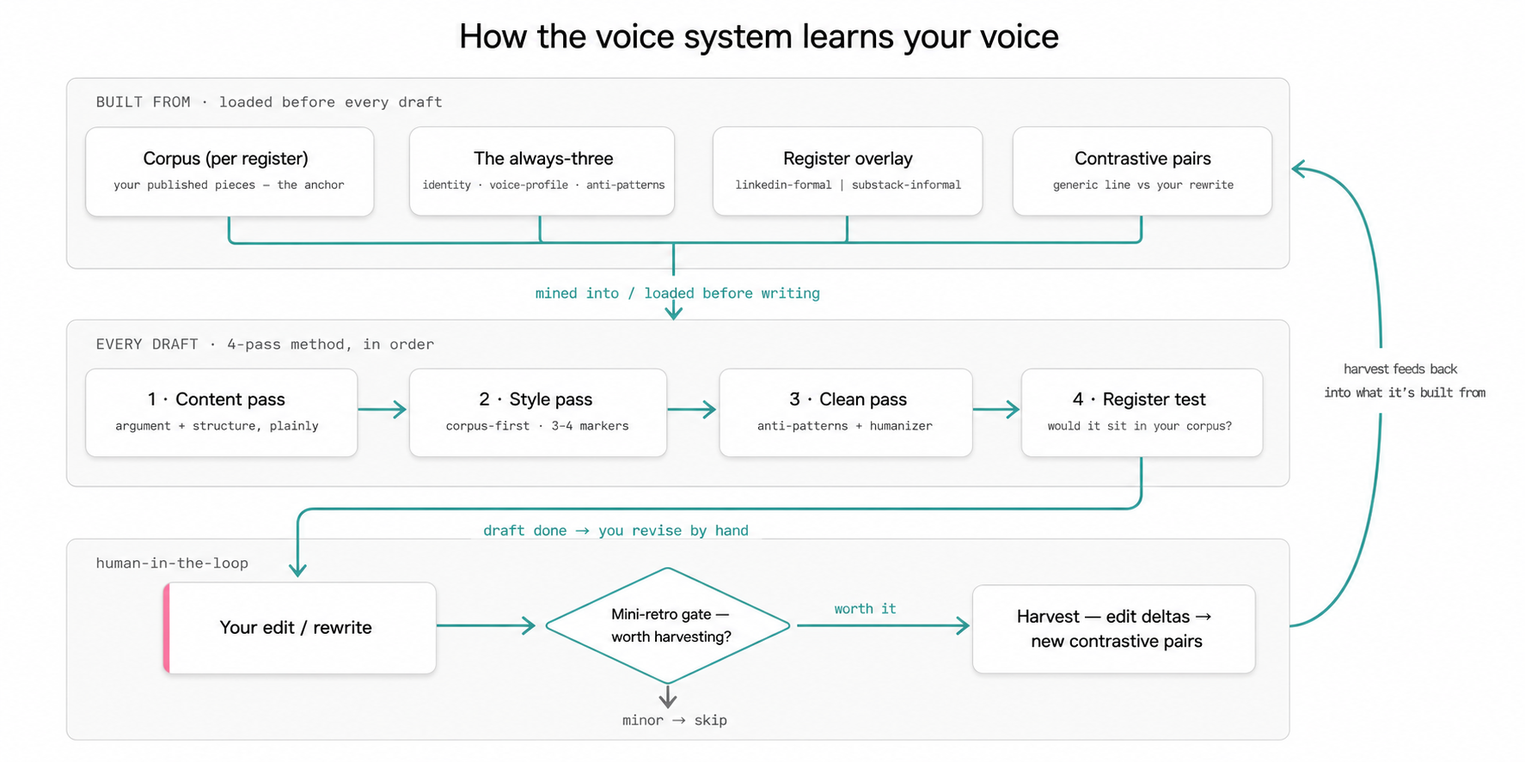
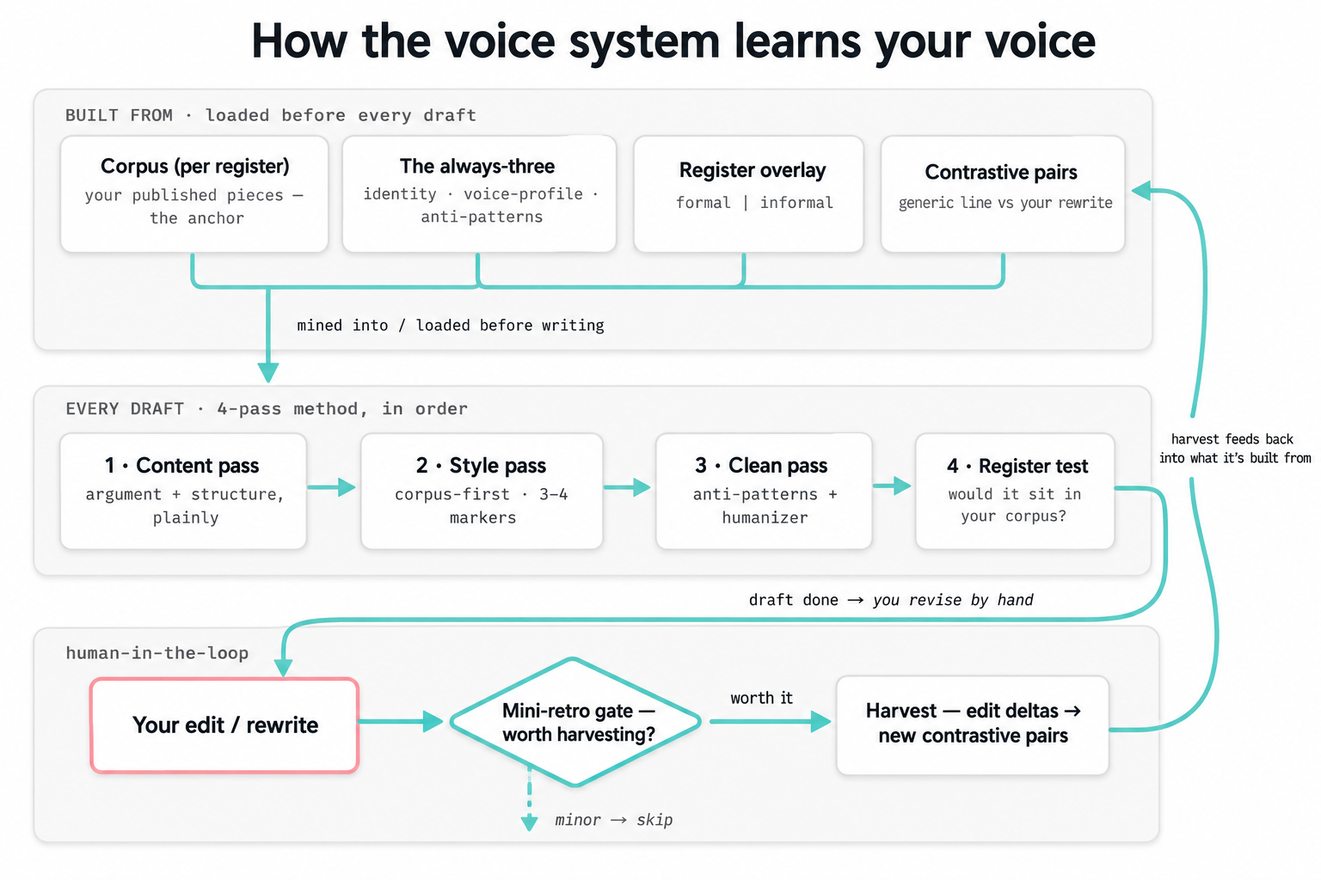
Decouple voice registers from channels
MIGRATION: Replace channel-coupled register taxonomy with formal/informal base-plus-borrow recipes. No compatibility aliases or tombstones are retained.

Changed region(s): [[0.0625, 0.4566, 1.0, 0.9741], [0.0312, 0.1218, 0.9375, 0.487], [0.1875, 0.0304, 0.8438, 0.0913]]

diff --git a/library/context/operator-schema/voice/README.md b/library/context/operator-schema/voice/README.md
@@ -1,39 +1,55 @@
-# Voice — canonical shape (v4, corpus-anchored)
+# Voice — canonical shape (v5, register/channel separated)
 
-> **Canonical shape of the voice system.** The voice build ([`voice-setup.md`](../../../process/voice-setup.md)) generates the operator's `library/context/operator/voice/` from this shape; it is not copied by hand. The operator's voice folder is gitignored (private).
+> **Canonical shape of the voice system.** [`voice-setup.md`](../../../process/voice-setup.md) generates the private `library/context/operator/voice/` tree from this shape.
 
-> **NOT SET UP YET?** If these files still hold bracketed placeholders, the voice system isn't built. Don't draft against placeholders — run [`library/process/voice-setup.md`](../../../process/voice-setup.md) to build it (gather samples → seed the gold corpus → mine pairs → taste interview → compile).
+> **NOT SET UP YET?** If these files still hold bracketed placeholders, run [`voice-setup.md`](../../../process/voice-setup.md). Do not draft against placeholders.
 
-Load when drafting any user-voiced text (post copy, slide text, body copy, essays).
+Load for any user-voiced text, regardless of destination: posts, essays, emails, decks, memos, scripts, or other prose.
 
-**Step zero — name the register** (from the deliverable type via `identity.md`), then load:
-- `identity.md`, `voice-profile.md`, `anti-patterns.md` (the always-three)
-- `registers/{register}.md` (the channel overlay)
-- `corpus/{register folder}/` — ALL pieces in the register's folder, whole (this is the imitation anchor; a register is never drafted without its corpus in context)
-- the matching `pairs/` file(s) for the register, plus any cross-cutting pairs file the pairs README marks always-load. Don't load all pairs.
-- `templates/` when you need a deliverable-shape blueprint.
+## Resolve context before loading
 
-## How to write in voice (imitate the corpus; rules clean up after)
+Resolve two independent inputs:
 
-1. **Content pass.** Draft the argument and structure plainly, without chasing style. Structure may borrow from the deliverable template and the aspiration shape (`corpus/aspiration/`) — shapes, never sentences.
-2. **Style pass — a separate rewrite whose only job is voice.** Place the register's full corpus pieces FIRST in working context and the rewrite instruction LAST (models weight both ends; the instruction sits closest to generation). Extract 3–4 concrete markers from the corpus + pairs for THIS piece — a sentence shape, a recurring move, a cadence pattern — and mandate their inclusion. Rewrite the skeleton toward the corpus. **Guard: match cadence, diction, and structure — never copy facts, phrases, or topics from the corpus pieces.**
-3. **Clean pass — a separate turn, never sharing context with the corpus.** Check against `anti-patterns.md` (weighted preferences + budgets) and the vendored humanizer with a sample of the operator's writing. Rules live here because in-context exemplars override in-context instructions — a rule sharing the style pass loses; a rule applied after wins.
-4. **The register test.** Read aloud: would each paragraph sit naturally inside the register's corpus pieces? The operator's own published work is the measuring stick — never an admired outside writer (those are structure aspiration only, see `corpus/aspiration/`).
+1. **Channel or deliverable context** — where the text will appear and what shape or platform constraints apply. Load the relevant `library/context/channels/{channel}/profile.md` and deliverable template when they exist.
+2. **Voice recipe** — how the operator should sound. A channel never selects this.
 
-Do **not** run an inline self-critique/CoT reasoning pass during generation — clinical deliberation tokens anchor the output back to generic. Evaluation happens in a separate pass, never inside the generation sequence.
+Canonical recipe:
 
-Writing generically and then cleaning is the failure mode ("cleaned-up generic AI"). So is imitating the wrong exemplar: a draft written without the register's corpus in context will sound like whatever the model saw last. Corpus-first exists to prevent both.
+```yaml
+voice:
+  base_register: formal        # formal | informal
+  borrow_from: []              # optional: [informal] or [formal]
+  direction: ""               # required when borrowing; name the traits or sections
+```
 
-## Comparing anchors (optional operator experiment)
+Use an explicit operator instruction or file recipe first. Otherwise infer the base from audience, risk, purpose, and desired relationship to the reader, then state the choice. Do not infer it from LinkedIn, Substack, email, slides, or any other channel.
 
-When the operator asks to compare, run the style pass twice on the same skeleton — (a) the register's corpus pieces as exemplars, (b) a live-fetched aspiration piece as exemplar — and present both. Default remains (a) unless the operator rules otherwise after a comparison.
+A blend always has one base. Load the base as the imitation anchor, then borrow only named traits from the other register. Do not use percentages. This keeps the result coherent and avoids loading two full corpora by default.
 
-## How to build your voice (the order matters)
+## Load path
 
-Voice comes from full examples of what you actually shipped, steered by examples of what you rejected — not from rules. Build in this order:
+After resolving the recipe, load:
 
-1. **Seed the gold corpus** (`corpus/{register}/`) from your best finished pieces — published or final text you'd stand behind, verbatim, 3–5 per register. This is the imitation anchor; everything else steers. If you have no finished pieces yet, start with pairs (next step) and promote your first shipped work into the corpus as it lands.
-2. **Mine your own writing into pairs.** Any existing writing — sent emails, docs, past posts, dictated notes — is higher-signal than self-description. Extract annotated contrastive pairs (generic version → your version → the move) and profile traits from what you actually wrote, not how you'd describe yourself.
-3. **File admired writing as aspiration, not voice.** Writing you wish you wrote goes in `corpus/aspiration/` — structure direction only, never the register test and never a style-pass exemplar.
-4. **Run the taste interview LAST** (`intake/taste-interview.md`), only to fill what the corpus couldn't — the *why* behind your taste, boundaries, registers you haven't written yet. Don't self-report your style up front; it's aspirational and wrong.
-5. **Let the harvest loop compound it.** As you ship deliverables, run `system/skills/voice-harvest/SKILL.md` (on demand or at lock) — it mines your edits into new pairs, promotes published/locked finals into the corpus, and flags recurring issues.
+- `identity.md`, `voice-profile.md`, and `anti-patterns.md`;
+- `registers/{base_register}.md`;
+- every full piece in `corpus/{base_register}/`;
+- pair files matching the register and the task context, plus any cross-cutting file marked always-load;
+- for a blend, the secondary register overlay plus the smallest secondary evidence set that demonstrates the named borrow: relevant pairs and usually one or two corpus pieces, not the whole secondary corpus;
+- `templates/` only when a voice-specific shape blueprint is needed.
+
+## How to write in voice
+
+1. **Content pass.** Draft the argument and structure plainly. Deliverable templates and aspiration pieces may inform shape, never wording.
+2. **Style pass.** Put the selected corpus evidence first and the rewrite instruction last. Extract 3–4 concrete markers for this piece, then rewrite toward them. Match cadence, diction, and structure; never copy facts, phrases, or topics.
+3. **Clean pass.** In a separate context, apply `anti-patterns.md` and the humanizer with an operator sample. Recheck the recipe after cleaning.
+4. **Register test.** Read aloud: would this sit naturally beside the selected operator corpus while satisfying the named blend direction?
+
+Do not run inline self-critique during generation. Evaluation is a separate pass. A draft written without corpus evidence will imitate whatever the model saw last; a draft written generically and merely cleaned afterward remains generic.
+
+## How to build the voice system
+
+1. Seed `corpus/{register}/` with 3–5 finished pieces per reusable register. Record channel as provenance, not taxonomy.
+2. Mine the operator's writing into pairs tagged independently by `register` and task `context`.
+3. Keep admired writing under `corpus/aspiration/` for structure direction only.
+4. Run the taste interview last to fill gaps the writing cannot reveal.
+5. Let [`voice-harvest`](../../../../system/skills/voice-harvest/SKILL.md) promote finished work and edit deltas over time.

diff --git a/library/process/voice-setup.md b/library/process/voice-setup.md
@@ -7,9 +7,13 @@ Run it as a guided session with the operator. Drive the sequence; don't dump it 
 ## The ordering rule
 Extract from existing writing FIRST, interview LAST. Self-reported style ("I write casually") is aspirational and wrong; real samples and real corrections are the signal. The interview only fills what samples can't reveal.
 
+## The separation rule
+
+Build registers from reusable voice temperature and reader relationship, not destinations. Channel constraints live in `library/context/channels/{channel}/profile.md`; deliverable shape lives in templates; pair metadata keeps `register` separate from task `context`.
+
 ## Sequence
 
-1. **Scaffold from the schema.** Generate `library/context/operator/voice/` from the voice schema (`library/context/operator-schema/voice/`): create `identity.md`, `anti-patterns.md`, `voice-profile.md`, `registers/` (one overlay per channel register named in `identity.md`), `corpus/` (one gold-corpus folder per register + `aspiration/`), `pairs/`, `templates/`, and `intake/corpus/` following the schema's shape. Generate from the shape — there is no example to copy.
+1. **Scaffold from the schema.** Generate `library/context/operator/voice/` from `library/context/operator-schema/voice/`: create the shared core; `registers/formal.md` and `registers/informal.md`; matching gold-corpus folders plus `aspiration/`; `pairs/`; `templates/`; and `intake/corpus/`. Generate from the shape — there is no example to copy.
 
 2. **Gather samples** (any or all of three routes — all just writing for the agent to read; save raw to `voice/intake/corpus/`):
    - **Admired writing** — articles/posts the operator wishes they wrote. Aspirational seed; gives the reference anchor and the first pairs.
@@ -17,15 +21,15 @@ Extract from existing writing FIRST, interview LAST. Self-reported style ("I wri
    - **Composio pull** — direct Composio at the operator's sent emails or written docs (long-form explaining/arguing prose is highest-signal). Operator points it at the right files/folders.
    Note inside each saved file whether it's admired or their own (one line, not a folder split).
 
-3. **Seed the gold corpus.** From the gathered samples, have the operator pick their best FINISHED pieces — published or final text they'd stand behind — and store them verbatim in `voice/corpus/{register}/` (3–5 per register, one provenance line each; rules in the schema's `corpus/README.md`). This is the imitation anchor the style pass drafts against; without it, first drafts imitate whatever the model saw last. Admired writing goes to `corpus/aspiration/` as structure direction, never as a voice anchor. If a register has no finished pieces yet, say so — the register drafts thin until real work ships and `voice-harvest` promotes it.
+3. **Seed the gold corpus.** Have the operator classify their best FINISHED pieces by reusable register (`formal` or `informal`), not by platform, and store them verbatim in `voice/corpus/{register}/` (3–5 per register, one provenance line each). Preserve channel in provenance. Admired writing goes to `corpus/aspiration/`, never the voice anchor. If a register is thin, say so until real work ships and `voice-harvest` promotes it.
 
-4. **Mine the intake corpus into pairs + profile traits.** Read `intake/corpus/`. Extract annotated contrastive pairs (generic → their version → the move) into `pairs/` by register, and draft profile traits (cadence, texture, openers, closers, stance toward the reader) from what the samples actually do — not from what the operator says about themselves. Most of the profile should come from here.
+4. **Mine the intake corpus into pairs + profile traits.** Extract pairs tagged independently by voice `register` and task `context`; do not use a platform or deliverable name as a register. Draft profile traits from what the samples actually do, not how the operator describes themselves.
 
 5. **Run the taste interview** ([`taste-interview.md`](../context/operator-schema/voice/intake/taste-interview.md)) — only on the gaps the corpus couldn't reveal (the *why* behind taste, boundaries, registers not yet written, humour). Gap-fill mode if a corpus exists; cold-start full only if there's nothing. Dictated, adversarial, push on vague answers. Save to `voice/intake/transcript-{date}.md`.
 
-6. **Compile.** Write `voice/voice-profile.md` (the operator's words, not adjectives). Fill `identity.md` (who/audience/register map), `anti-patterns.md` (from the cringe answers + the admired-writing reference), and one `registers/{register}.md` overlay per register — licensing only the moves the register's gold corpus evidences (shape in the schema's `registers/README.md`). Finalise `pairs/` (one pair per distinct move, deduped, recency-weighted; caps in the schema's `pairs/README.md`).
+6. **Compile.** Write `voice-profile.md`, `identity.md`, and `anti-patterns.md`; define the formal/informal selection contract and optional base-plus-borrow recipe; and keep each register overlay limited to voice differences evidenced by its corpus. Put channel rules in channel profiles and shape rules in deliverable templates. Finalise pairs with independent register/context tags.
 
-7. **Validate.** Draft one short test piece using only the new system, following the drafting sequence in the schema README (corpus-first style pass, clean pass in a separate turn, register test). Does it land in 1–2 passes? If not: a thin gold corpus is the first suspect, the pairs are the second lever — fix before declaring setup done.
+7. **Validate.** Draft the same short payload twice for different channels using one register, then once as a declared blend. Confirm channel changes do not silently change voice, the base corpus remains the main anchor, and the blend direction is visible without loading both full corpora.
 
 ## Not this
 - One-time setup, not per-session. Once `voice/` is filled, this doesn't re-run.

diff --git a/library/context/operator-schema/voice/registers/README.md b/library/context/operator-schema/voice/registers/README.md
@@ -1,40 +1,37 @@
-# Register overlays — one file per channel register
+# Register overlays — one file per reusable voice register
 
-A register overlay scopes the shared voice core to one channel (e.g. a formal-professional feed vs. a personal newsletter). `identity.md` names the registers and maps deliverable types to them; each register named there gets one overlay file here and one corpus folder in `../corpus/`.
+A register overlay scopes the shared voice core to a reusable level of formality, warmth, candour, or conversational distance. It is channel-independent: the same formal register may serve a LinkedIn post, executive deck, email, or memo.
 
-An overlay carries only what DIFFERS from the shared core — the core (`voice-profile.md`, `anti-patterns.md`, `identity.md`) always applies underneath.
+`identity.md` names the registers. Each gets one overlay here and one corpus folder in `../corpus/`. Channel formatting, audience defaults, link placement, title structures, and platform mechanics belong in `library/context/channels/{channel}/profile.md` or a deliverable template.
 
-## Shape of an overlay file
+An overlay carries only what differs from the shared core. `identity.md`, `voice-profile.md`, and `anti-patterns.md` always apply underneath.
 
-```
+## Shape
+
+```markdown
 # Register: {register-name}
 
-[One paragraph: the channel, the audience, and the temperature relative to the
-operator's other registers ("a notch more casual than X, not less"). Name the
-ground-truth corpus piece: when a rule here and that corpus disagree, the corpus wins.]
+[What reader relationship and temperature this register creates. Explain when it
+fits by purpose and risk, not by platform.]
 
-**Corpus:** ../corpus/{register}/ — imitate these. The paragraph test: would this
-paragraph sit naturally inside {the register's strongest piece}?
+**Corpus:** ../corpus/{register-name}/ — the imitation anchor.
 
-## Licensed here (each move evidenced by a shipped piece — do not sand these out)
-[Moves the shared core would flag but this register's published work proves:
-fragments, exclamations, humour, direct reader address, idioms, repetition
-tolerance… One line each, with a verbatim example from the corpus.]
+## Temperature and stance
+[Humour, candour, authority, directness, and casual ceiling evidenced by shipped work.]
 
-## Still true here (shared core applies)
-[One line re-asserting the identity hard lines and any core rules drafts in this
-register tend to violate.]
+## Cadence and texture
+[Only the rhythm, diction, and rhetorical moves that differ from the shared core.]
 
-## Structure
-[Header conventions, opener/closer rules, link placement, channel conventions.
-Operator-only slots the agent leaves open instead of inventing content for:
-[FILL] facts only the operator has · [POV] the operator's live phrasing ·
-[NERD-NOD] cultural references only the operator brings · [WAR-STORY] a personal
-anecdote the section needs but the agent cannot invent.]
+## Licensed here
+[Moves evidenced in this register's corpus that the shared core might otherwise sand out.]
+
+## Still true here
+[One line reasserting the cross-register hard lines most likely to drift.]
 ```
 
 ## Rules
 
-- **Evidence-gated licensing.** A move enters "Licensed here" only when a shipped piece in this register's corpus shows it — never because it would sound good.
-- **Corpus wins.** When an overlay rule and the register's corpus disagree, the corpus is ground truth; fix the overlay.
-- **Overlays stay thin.** Anything true in every register belongs in the shared core, not copied into each overlay.
+- **Evidence-gated.** License a move only when finished work in this register demonstrates it.
+- **Corpus wins.** When overlay prose and the corpus disagree, fix the overlay.
+- **Channel-independent.** Corpus provenance may name a channel; the register name and guidance do not depend on it.
+- **Thin overlays.** Shared traits stay in the core; output-shape rules stay in templates or channel profiles.

diff --git a/library/context/operator-schema/voice/identity.md b/library/context/operator-schema/voice/identity.md
@@ -1,23 +1,33 @@
 # Who [you] are on the page
 
-[One or two sentences: the persona behind the writing. e.g. "A builder reporting from inside the work." What's the lens — practitioner, founder, researcher? What context informs what you notice but never appears as an authority claim?]
+[One or two sentences describing the persona behind the writing: practitioner, builder, founder, researcher, or another durable lens.]
 
-Audience: [who you're writing for, and what earns their attention — evidence, pattern recognition, opinion?]
+Audience is task-scoped. [Describe what generally earns attention, while leaving the specific audience to the file, deliverable, and channel context.]
 
-[Locale / spelling convention if relevant.]
+[Locale or spelling convention, if relevant.]
 
 ## Hard lines
 
-[Boundaries that calibrate every draft — what you are NOT on the page. e.g.:]
-- **[Thing the voice never does]** — [why, and the substitution.]
-- **[Tone boundary]** — [e.g. "no punching down / no naming-and-shaming"; the framing you use instead.]
+[Boundaries true in every register: what you are not on the page, the tone you refuse, and the substitution to use instead.]
 
 ## Registers
 
-[The distinct channel registers you write in. Identify the register FIRST — it decides what loads (this is step zero of the drafting sequence in the README). Each register maps a deliverable type to one overlay file and one gold-corpus folder:]
-- **[`{register-name}`]** (`registers/{register-name}.md` + `corpus/{register-name}/`) — [which deliverable types route here; the temperature relative to your other registers.]
-- **[`{second-register}`]** (`registers/{...}.md` + `corpus/{...}/`) — [same.]
+Registers are reusable voice temperatures, never platform names. Start with the smallest durable set; for this schema the canonical set is:
 
-[Sub-registers inside a channel, if any — e.g. slide/cover lines: not sentences, punchy allowed, length rules don't apply. And the casual ceiling: how casual is too casual for published work vs. how you talk privately.]
+- **`formal`** (`registers/formal.md` + `corpus/formal/`) — [the professional, decision-oriented, or higher-stakes expression of your voice].
+- **`informal`** (`registers/informal.md` + `corpus/informal/`) — [the warmer, more conversational, or exploratory expression of your voice].
 
-The pairs in `pairs/` are tagged by register.
+Do not create `linkedin-*`, `substack-*`, `email-*`, or deliverable-named registers. Platform rules live in channel profiles; slide, cover, email, and long-form shape rules live in templates or pair `context` tags.
+
+## Voice recipe
+
+```yaml
+voice:
+  base_register: formal        # formal | informal
+  borrow_from: []              # optional: the other register
+  direction: ""               # required for a blend
+```
+
+Choose from explicit file or operator direction first. Otherwise infer from audience, purpose, risk, and reader relationship, not channel. A blend keeps one base and names what it borrows; it is not a percentage mix.
+
+The pairs in `pairs/` are tagged separately by register and task context.

diff --git a/system/skills/voice-harvest/SKILL.md b/system/skills/voice-harvest/SKILL.md
@@ -70,7 +70,7 @@ Ask with `AskUserQuestion`: *"How deep should I mine — diffs only (cheap), + t
 - **The hand-edit-copy convention (how to isolate operator keystrokes):** operator-edit versions are created as a verbatim copy ("Operator hand-edit copy — edit directly here") and edited in place, so `diff v(N-1)→v(N)` on that copy isolates the operator's changes exactly. Typos in these diffs mark authentic operator text — signal, not noise. The operator may also edit *other* versions in place; those edits only surface inside the next agent-cleanup diff, mixed with agent changes — use the version notes ("cleanup of the operator's vN edits") to attribute. A line-level change you can't attribute from disk gets reported as unattributed, never assumed.
 - **Transcript (Tier 2):** read the session JSONL for the stretch where this work evolved — the operator's dictated direction, the "too fancy / fix it" feedback, the reject→accept exchanges. This captures corrections that never hit a version file (in-chat iteration).
 - **Fresh artifact:** if the input is a net-new piece (an article, a sent email, a post the person wrote), read it as a positive exemplar — extract BRANDON-side lines directly; the BASE is the generic version you reconstruct.
-- Always read the current `pairs/*.md` (all register files) so you know what's already covered and don't duplicate. Read `pairs/README.md` for the format.
+- Always read the current `pairs/*.md` so you know what's already covered across register- and context-grouped files. Read `pairs/README.md` for the format.
 
 ### Step 3 — Extract and classify deltas
 
@@ -97,10 +97,11 @@ Do the first pass yourself, then surface candidates for the operator to approve 
 BASE: <generic / pre-edit version>
 BRANDON: <the operator's actual rewrite>
 MOVE: <what changed + why — generatively useful; cite the source delta, e.g. "Post 5 v9→v10op">
-register: builder-pov | market-signal | slide | cover
+register: formal | informal | both
+context: builder-pov | market-signal | slide | cover | email | long-form | <other task context>
 ```
 
-**Pairs hygiene** (from `pairs/README.md` / voice-mini-retro): cap ~30 total grouped by register; over cap → a new pair REPLACES the weakest/most-redundant (name it); dedup by move; recency-weighted (newest approved work wins). Surface candidates; write only approved ones to the matching `pairs/{register}.md`.
+**Pairs hygiene** (from `pairs/README.md` / voice-mini-retro): keep register and task context separate; never use a channel as either one. Cap ~30 total; over cap → a new pair REPLACES the weakest/most-redundant (name it); dedup by move; recency-weighted. Surface candidates; write only approved ones to the matching register- or context-grouped pair file.
 
 ### Step 6 — Corpus promotion (full-piece exemplars)
 

diff --git a/library/context/operator-schema/voice/pairs/README.md b/library/context/operator-schema/voice/pairs/README.md
@@ -1,19 +1,25 @@
 # Annotated contrastive pairs
 
-The steering layer. Each pair shows the distance from generic-AI prose to YOUR voice, with a note on the move. Generate by writing toward the rewrites and applying the moves. The corpus (`../corpus/`), not the pairs, carries the imitation load; pairs steer.
+The steering layer. Each pair shows the distance from generic prose to the operator's voice. The corpus carries the imitation load; pairs teach specific moves.
 
-Group files by register (e.g. `builder-pov.md`, `formal.md`, `short-form.md`). Load the ones matching the task; don't load all. A cross-cutting file may be marked **always-load for long-form prose** when it guards a drift no single register owns (e.g. a `plain-not-clever.md` catching fluent over-writing — smooth, ornamental sentences that pass every cadence test).
+Register and task context are separate axes:
 
-Format per pair:
+- `register`: `formal`, `informal`, or `both`;
+- `context`: the posture or output situation, such as `builder-pov`, `market-signal`, `slide`, `cover`, `email`, or `long-form`.
 
-```
+Files may be grouped by register (`informal.md`) or context (`slide-and-cover.md`). Load only files matching the selected recipe and task context, plus any cross-cutting file marked always-load.
+
+Format:
+
+```text
 ### tag — one-line label
-BASE: <generic, highest-probability version>
-[YOU]: <same payload, in your voice>
-MOVE: <what changed and why — generatively useful, one or two sentences; cite the source delta>
-register: <which register>
+BASE: <generic version>
+YOU: <same payload, in your voice>
+MOVE: <what changed and why; cite the source delta>
+register: formal | informal | both
+context: <task context>
 ```
 
-Cap by moves, not count: **one pair per distinct move** — a new example of an already-covered move REPLACES the old pair (newest approved work wins), it never joins it. Total count is a curation signal, not a wall; a single register file creeping past ~15 pairs is due a dedup pass, because a draft loads that whole file and in-context exemplars compete — redundant pairs dilute the load-bearing ones. A pair earns its place only if it teaches a GENERALIZABLE move — would this note help write a different piece better? If it's a one-off, skip it.
+Use `both` only when the move genuinely survives both registers. Never put a platform name in `register`; platform-specific behavior belongs to a channel profile.
 
-See `example.md` for the format in action.
+Cap by moves, not count: one pair per distinct, generalizable move. Replace redundant pairs with newer approved evidence. A file creeping past roughly 15 pairs is due a dedup pass because competing exemplars dilute the useful ones.

diff --git a/library/context/operator-schema/voice/corpus/README.md b/library/context/operator-schema/voice/corpus/README.md
@@ -2,12 +2,12 @@
 
 Not the same thing as `../intake/corpus/` (raw setup-time samples, any quality): THIS folder is curated finals only, loaded at drafting time.
 
-Full-length finished pieces in the operator's voice, stored verbatim, grouped by register. The style pass imitates THESE — models copy what they're shown over what they're told, so these files, not the profile rules, are what makes a draft sound like the operator. Loaded by the drafting sequence in [`../README.md`](../README.md); the register overlay names which folder to load.
+Full-length finished pieces in the operator's voice, stored verbatim and grouped by reusable voice register. Channel is provenance, not taxonomy: a formal email and a formal post may teach the same register. The style pass imitates THESE — models copy what they're shown over what they're told, so these files, not the profile rules, are what makes a draft sound like the operator.
 
 ## Rules
 
 - **3–5 pieces per register.** Below 3 the register is thin (say so when drafting); above 5, adding a piece means replacing the weakest — name the replaced piece when you swap.
-- **Topical diversity beats count.** Five pieces on one subject teach a template, not a voice. When adding, prefer the piece that covers a new topic or deliverable shape.
+- **Topical and channel diversity beat count.** Five pieces on one subject or platform teach a template, not a reusable voice. Prefer new topics and shapes; cross-channel examples are especially useful.
 - **Verbatim, operator-approved finals only.** Published text or operator-locked finals. No agent drafts, no cleaned-up intermediates. One provenance line at the top of each file (source + date); nothing else added.
 - **Recency-weighted.** Newest shipped work best represents where the voice is. When pruning, the oldest or most topic-redundant piece goes first.
 - **New pieces arrive via `voice-harvest`** (corpus-promotion step at publish/lock), not by hand-copying mid-draft.
@@ -16,5 +16,6 @@ Full-length finished pieces in the operator's voice, stored verbatim, grouped by
 
 | Folder | Contents |
 |---|---|
-| `{register}/` — one folder per register named in `identity.md` | The register's finished pieces, verbatim |
+| `formal/` | Finished formal pieces from any channel, verbatim |
+| `informal/` | Finished informal pieces from any channel, verbatim |
 | `aspiration/` | Pointers to admired writing — the direction of travel, NOT the operator's voice. Each file holds URL + craft breakdown; live-fetch the full text at use time. Never load into a style pass by default — used for structure reference in the content pass and for the corpus-vs-aspiration A/B comparison. |

diff --git a/README.md b/README.md
@@ -59,10 +59,10 @@ AgentFrame keeps its context, working rules, and project state in files that any
 
 - **Add specialised structure through domain packs.** Marketing, project management, and careers ship today. Adding another domain means adding its templates and descriptor rather than rewriting the core.
 
-- **Teach the voice system from real edits.** It reads complete pieces you have published, uses a different register for each channel, and compares agent drafts against your rewrites to learn your written voice. Each edit gives the system better evidence for making the next first draft sound more like you.
+- **Teach the voice system from real edits.** It reads complete pieces you have published, keeps reusable voice registers separate from channel rules, and compares agent drafts against your rewrites. A formal or informal voice can travel across posts, emails, decks, and essays, with an explicit blend when one register needs a controlled borrow from the other.
 
 <p align="center">
-  <img src=".github/readme-assets/voice-system.png" alt="How the voice system works in detail. Built from (loaded before every draft): the per-register corpus of your published pieces, the always-three files (identity, voice-profile, anti-patterns), the register overlay, and contrastive pairs. Every draft runs a four-pass method: content pass, style pass (corpus-first with 3-4 mandated markers), clean pass (anti-patterns plus humanizer in a separate turn), and a register test. Then you revise by hand; a mini-retro gate decides whether the edit is worth harvesting; and harvest turns edit deltas into new contrastive pairs that feed back into what the system is built from." width="880" />
+  <img src=".github/readme-assets/voice-system.png" alt="How the voice system works in detail. Built from the per-register corpus of published pieces, the always-three files (identity, voice-profile, anti-patterns), a formal or informal register overlay selected independently from channel, and contrastive pairs. Every draft runs a four-pass method: content, corpus-first style, a separate anti-pattern and humanizer clean pass, and a register test. Human edits pass through a mini-retro gate; worthwhile deltas become new contrastive pairs that feed the system." width="880" />
 </p>
 
 ### 3. Keep state and automation deterministic

diff --git a/library/domains/marketing/deliverables/substack-essay/template.md b/library/domains/marketing/deliverables/substack-essay/template.md
@@ -6,7 +6,7 @@ A full-length essay for the operator's Substack publication — the long-form ho
 
 ## Inputs
 
-- **Voice**: mandatory — run the voice system sequence at `library/context/operator/voice/README.md` with register `substack-informal` (loads the overlay + the full substack corpus; the essay is drafted corpus-anchored, never from rules alone).
+- **Voice**: mandatory — resolve a formal, informal, or base-plus-borrow recipe through `library/context/operator/voice/README.md`. Select it from the essay's audience, purpose, and operator direction, never from the fact that it publishes on Substack. Draft against the selected base corpus, not rules alone.
 - **Channel conventions**: `library/context/channels/substack/profile.md` (series/subtitle format, footer, subscribe CTA, image handling).
 - **Source material** when the essay reports a real event: transcript, notes, photos. What only the operator witnessed stays an open slot (see Hard Constraints).
 - **Research Artifact** for any externally citable claim.
@@ -24,7 +24,7 @@ A full-length essay for the operator's Substack publication — the long-form ho
 - **Never fabricate event facts.** Attendance counts, durations, quotes, student/participant outcomes — if the source material doesn't state it, leave a `[FILL]` slot. (Earned: the first essay draft invented "thirty-odd students, three hours"; reality was twelve and two.)
 - **Open concrete** — a scene, the literal artifact, or a flat true statement. Never an abstraction, never "imagine".
 - **Metaphors are functional, not literary** — a metaphor earns its place only by making a hard idea easier.
-- **The register test at every section**: would this paragraph sit inside the pieces in `voice/corpus/substack/`? Editorial-polished prose that would sit in an admired publication but not in the operator's own published essay is off-register.
+- **The register test at every section**: would this paragraph sit inside the selected base register's corpus while satisfying any explicit borrow direction? Editorial-polished prose that would sit in an admired publication but not in the operator's own work is off-register.
 - Externally citable claims trace to the research artifact or a named source.
 
 ## Draft Frontmatter Convention

diff --git a/CHANGELOG.md b/CHANGELOG.md
@@ -8,7 +8,7 @@ First public cut of the rebuilt, domain-neutral AgentFrame. It's what I use day 
 
 - **Context that survives the chat.** A fresh agent reconstructs a project from disk after a compaction, provider switch, or a month away; `sources/` and `knowledge/` stay separate, with a consolidation pass to archive resolved detail; the persona → project → flow → process chain loads only what the step needs.
 - **A domain-neutral core with packs on top.** The project is the smallest unit of work, generic enough for a frontier model to scaffold for almost anything. Marketing, project management, and careers ship today.
-- **A voice system trained on your real edits.** It learns from the gap between its draft and your rewrite, per channel register, folding manual edits back in as contrastive pairs.
+- **A voice system trained on your real edits.** It learns from the gap between its draft and your rewrite, using reusable registers selected independently from channel and folding manual edits back in as contrastive pairs.
 - **Deterministic state and a real audit trail.** `af` owns creation, versioning, locking, publishing, and doctor checks; every deliverable keeps a version trail with immutable snapshots and tracked exports; an append-only audit database records system changes.
 - **Managed automations for standing work.** A project defines a job, receives queued tasks, and runs them through a bounded local agent that reports back `done`, `blocked`, or `failed`. Early — just started running on real work.
 - **A Workspace Dashboard rendered from the files.** Projects, an attention list, calendar and timeline views, a preview workspace, and a read-only Automations pulse, all read straight from the same files the agents use — no second database, no model call.

diff --git a/library/context/operator-schema/voice/voice-profile.md b/library/context/operator-schema/voice/voice-profile.md
@@ -42,4 +42,4 @@ The generative prior. Write toward this; it's how [you] think on the page, not a
 [The division of labour: who drafts, who edits, who does the final pass. e.g. "operator dictates → agent edits → operator hand voice pass; the agent's job is to get it CLOSE enough that the final pass is light, not a rescue." Note when direction lands: big structural passes EARLY, small line passes LATE — never treat a structural note as a small edit.]
 
 ## Reference anchor
-Your own shipped work is the register test: would this paragraph sit naturally inside the register's `corpus/` pieces? [Name an admired outside source only as STRUCTURE aspiration (see corpus/aspiration/) — a draft that could sit in the admired source but contains no line that sounds like you has failed.]
+Your own shipped work is the register test: would this paragraph sit naturally inside the selected register's `corpus/` pieces? Channel conventions are checked separately. [Name an admired outside source only as STRUCTURE aspiration (see corpus/aspiration/) — a draft that could sit in the admired source but contains no line that sounds like you has failed.]

diff --git a/library/context/operator-schema/voice/pairs/example.md b/library/context/operator-schema/voice/pairs/example.md
@@ -1,4 +1,4 @@
-# Example pairs (delete this file; replace with your own register files)
+# Example pairs (delete this file; replace with your own register- or context-grouped files)
 
 These illustrate the FORMAT. Replace with pairs mined from your own corpus and admired writing.
 
@@ -6,10 +6,12 @@ These illustrate the FORMAT. Replace with pairs mined from your own corpus and a
 BASE: In today's rapidly evolving landscape, organizations are increasingly converging on a unified strategy.
 YOU: [Your flat, concrete version of the same idea — how you'd actually open.]
 MOVE: Cut the throat-clearing and abstraction. State the thing in one sentence, trust the reader. [Adapt the move to your voice.]
-register: [your default register]
+register: formal
+context: long-form
 
 ### closer-claim — land on a fact, not a sentiment
 BASE: Ultimately, this represents a fundamental shift that will reshape everything going forward.
 YOU: [Your concrete closing claim — what's true, not how to feel about it.]
 MOVE: Close on a concrete claim, never a sentiment-stamp. [Adapt.]
-register: [your default register]
+register: both
+context: long-form
